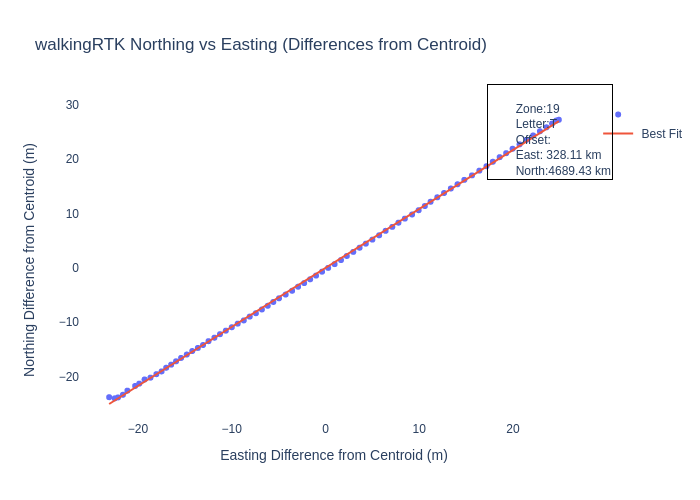
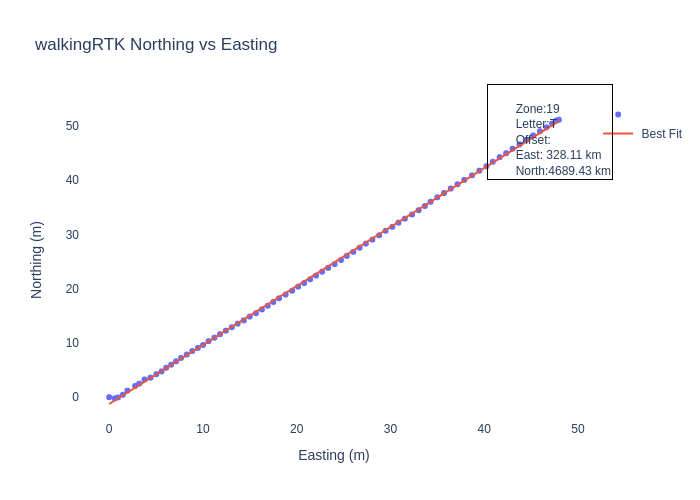
Fix walking plot

diff --git a/gnss/analysis/dataUtil.py b/gnss/analysis/dataUtil.py
@@ -115,7 +115,10 @@ def point_to_line_dist(point, slope, intercept):
 
     # Calculate distance using the formula for perpendicular distance from a point to a line:
     # |Ax + By + C| / sqrt(A^2 + B^2) where line is Ax + By + C = 0
-    # For y = mx + b, A = m, B = -1, and C = b
+    # For y = mx + b
+    # mx -y + b = 0
+    # Ax + (-B) y + C =0
+    # A = m, B = -1, and C = intercept (b)
     dist = abs(slope * px - py + intercept) / (np.sqrt(slope**2 + 1))
     return dist
 
@@ -202,7 +205,7 @@ def plotNorthingEasting(csv_filepaths: list, plot_filepath: str, scenario: str, 
         if isLineOfBestFit:
             # Compute and overlay line of best fit.
             m, b = np.polyfit(df['easting_normalized'], df['northing_normalized'], 1)
-
+            print(np.polyfit(df['easting_normalized'], df['northing_normalized'], 1))
             # Plot.
             fig.add_trace(go.Scatter(
                 x=df['easting_normalized'], 
